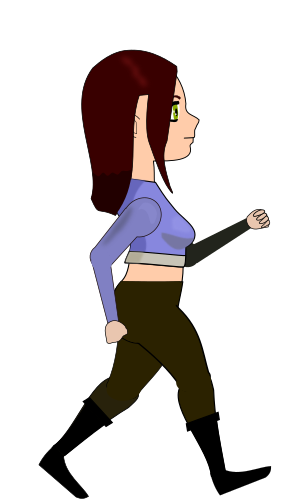
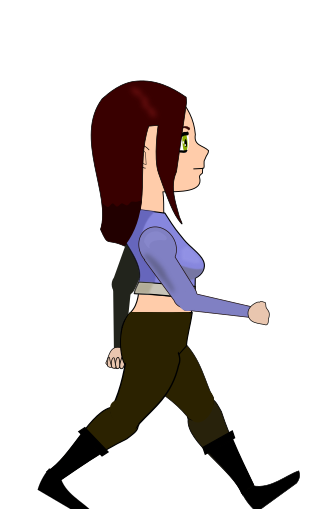
commit

Changed region(s): [[0.1212, 0.0902, 0.9697, 1.0], [0.4848, 0.6914, 0.5152, 0.7214]]

diff --git a/sketch.js b/sketch.js
@@ -12,8 +12,10 @@ function preload(){
     knifeImage=loadImage("images/knifeImage.png")
     bulbImage=loadImage("images/bulbImage.png")
     zombieImage=loadImage("images/zombieImage.png")
-    girlAnimation=loadAnimation("images/girl1.png","images/girl2.png")
+    girlAnimation=loadAnimation("images/girl1.png","images/girl2.png","images/girl3.png","images/girl4.png","images/girl5.png","images/girl6.png","images/girl7.png","images/girl8.png")
     sad=loadImage("images/sad.png")
+    happy=loadImage("images/happy.png")
+    //life=loadImage("images/heart.png")
 }
 
 function setup(){
@@ -35,6 +37,12 @@ function setup(){
     knifeGroup=new Group();
     emoji=createSprite(90,15,10,10)
     emoji.visible=false;
+    life1=createSprite(770,20,5,5)
+    life2=createSprite(780,20,5,5)
+    life3=createSprite(790,20,5,5)
+    life1.addImage(life)
+    life2.addImage(life)
+    life3.addImage(life)
 }
 
 function draw(){
@@ -54,6 +62,17 @@ if(gameState!="end"){
 if(keyDown("space")){
     girl.velocityY=-10;
 }
+if(lives==2){
+life1.visible=false;
+}
+if(lives==1){
+    life2.visible=false;
+}
+if(lives<=0){
+    life1.visible=false;
+    life2.visible=false;
+    life3.visible=false;
+}
 spawnBulb();
 spawnKnife();
 if(girl.isTouching(bulbGroup)){
@@ -63,7 +82,7 @@ if(girl.isTouching(bulbGroup)){
 }
 if(score<5&&score>1){
 emoji.visible=true;
-emoji.addImage(sad)
+emoji.addImage(happy)
 emoji.scale=0.05
 }
 //add is touching for knife group
